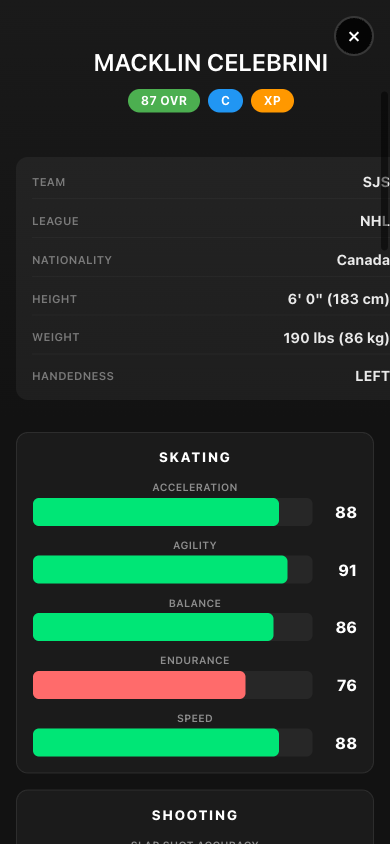
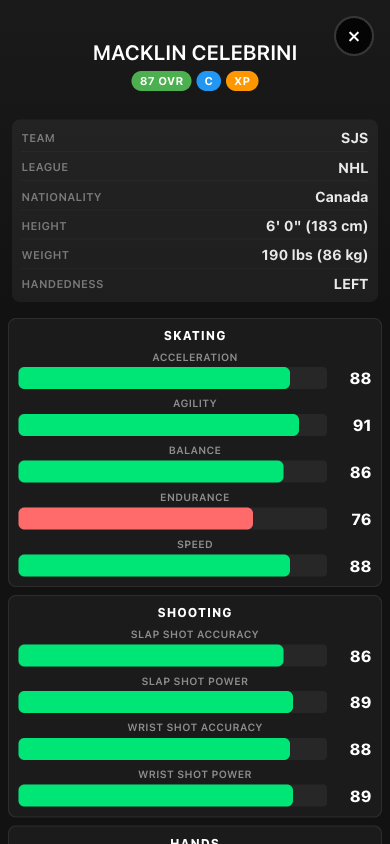
Reduce all padding and spacing for mobile devices
- Reduced modal padding from 1rem to 0.5-0.75rem
- Smaller headers and badges
- Compact player details block
- Reduced stats section padding
- Smaller stat bars (22px height)
- Reduced table padding and font sizes
- Smaller pagination buttons
- More content visible on screen

diff --git a/src/components/PlayerModal.css b/src/components/PlayerModal.css
@@ -314,29 +314,29 @@
     width: 100%;
     border-right: none;
     border-bottom: none;
-    padding: 3rem 1rem 1rem;
+    padding: 2.5rem 0.75rem 0.5rem;
     overflow: visible;
     background: linear-gradient(to bottom, #1a1a1a, #121212);
     box-sizing: border-box;
   }
 
   .player-header {
-    margin-bottom: 1rem;
+    margin-bottom: 0.5rem;
   }
 
   .player-header h2 {
-    font-size: 1.5rem;
-    margin-bottom: 0.8rem;
+    font-size: 1.3rem;
+    margin-bottom: 0.4rem;
   }
 
   .player-badges {
-    gap: 0.5rem;
-    margin-bottom: 1rem;
+    gap: 0.3rem;
+    margin-bottom: 0.5rem;
   }
 
   .badge {
-    padding: 0.3rem 0.8rem;
-    font-size: 0.75rem;
+    padding: 0.2rem 0.5rem;
+    font-size: 0.7rem;
   }
 
   .card-image-large {
@@ -345,19 +345,19 @@
 
   .player-details {
     background: rgba(255, 255, 255, 0.05);
-    padding: 1rem;
-    border-radius: 12px;
-    gap: 0.8rem;
+    padding: 0.6rem;
+    border-radius: 8px;
+    gap: 0.4rem;
     width: 100%;
     box-sizing: border-box;
   }
 
   .detail-item {
-    padding-bottom: 0.5rem;
+    padding-bottom: 0.3rem;
     display: flex;
     justify-content: space-between;
     align-items: center;
-    gap: 0.5rem;
+    gap: 0.3rem;
     flex-wrap: wrap;
   }
 
@@ -375,7 +375,7 @@
   }
 
   .modal-right-side {
-    padding: 1rem;
+    padding: 0.5rem;
     overflow: visible;
     background: transparent;
     width: 100%;
@@ -384,30 +384,30 @@
 
   .stats-sections {
     grid-template-columns: 1fr !important;
-    gap: 1rem;
+    gap: 0.5rem;
     width: 100%;
     box-sizing: border-box;
   }
 
   .stats-section {
     background: rgba(255, 255, 255, 0.04);
-    padding: 1rem;
-    border-radius: 12px;
+    padding: 0.6rem;
+    border-radius: 8px;
     border: 1px solid rgba(255, 255, 255, 0.08);
     width: 100%;
     box-sizing: border-box;
   }
 
   .stats-section h3 {
-    font-size: 0.85rem;
-    margin-bottom: 1rem;
+    font-size: 0.75rem;
+    margin-bottom: 0.5rem;
     color: white;
     font-weight: 800;
-    letter-spacing: 1.5px;
+    letter-spacing: 1px;
   }
 
   .stat-bar {
-    margin-bottom: 0.8rem;
+    margin-bottom: 0.5rem;
   }
 
   .stat-label {
@@ -417,9 +417,9 @@
   }
 
   .stat-bar-bg {
-    height: 28px;
+    height: 22px;
     background: rgba(255, 255, 255, 0.05);
-    border-radius: 6px;
+    border-radius: 4px;
   }
 
   .stat-bar-fill {

diff --git a/src/components/PlayerSearch.css b/src/components/PlayerSearch.css
@@ -222,23 +222,78 @@
 
 @media (max-width: 768px) {
   .player-search {
-    padding: 1rem;
+    padding: 0.5rem;
+  }
+
+  .search-header {
+    padding: 0.5rem 0;
+  }
+
+  .search-header h2 {
+    font-size: 1.2rem;
+  }
+
+  .result-count {
+    font-size: 0.75rem;
+  }
+
+  .filters-container {
+    padding: 0.5rem;
+    gap: 0.5rem;
   }
 
   .filter-row {
     grid-template-columns: 1fr;
+    gap: 0.5rem;
+  }
+
+  .filter-group label {
+    font-size: 0.7rem;
+    margin-bottom: 0.2rem;
+  }
+
+  .search-input,
+  .filter-select,
+  input[type="number"] {
+    padding: 0.4rem;
+    font-size: 0.85rem;
+  }
+
+  .filter-actions {
+    padding: 0.5rem 0;
+    gap: 0.5rem;
+  }
+
+  .reset-button {
+    padding: 0.4rem 0.8rem;
+    font-size: 0.8rem;
+  }
+
+  .table-container {
+    margin-top: 0.5rem;
   }
 
   .players-table {
-    font-size: 0.85rem;
+    font-size: 0.75rem;
   }
 
   .players-table th,
   .players-table td {
-    padding: 0.5rem;
+    padding: 0.3rem;
   }
 
   .pagination {
     flex-wrap: wrap;
+    gap: 0.3rem;
+    padding: 0.5rem;
+  }
+
+  .page-button {
+    padding: 0.3rem 0.6rem;
+    font-size: 0.75rem;
+  }
+
+  .page-info {
+    font-size: 0.8rem;
   }
 }
